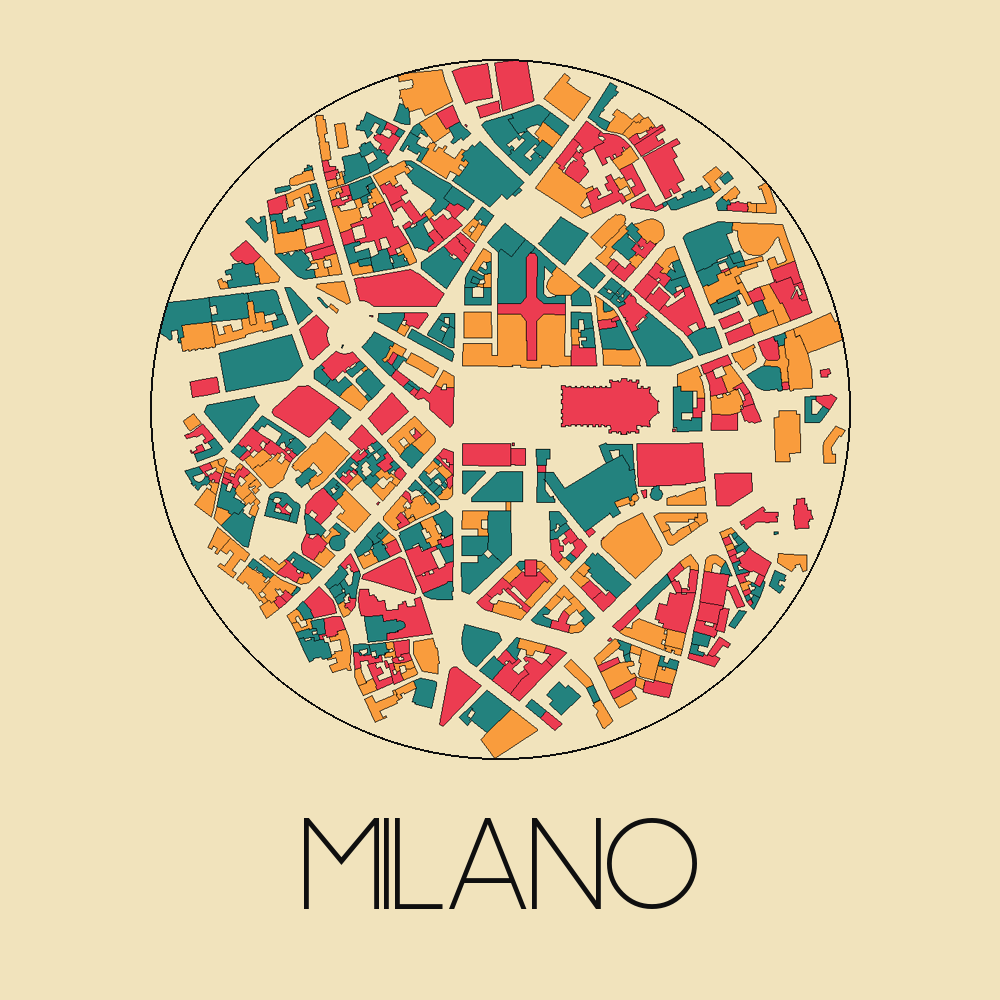
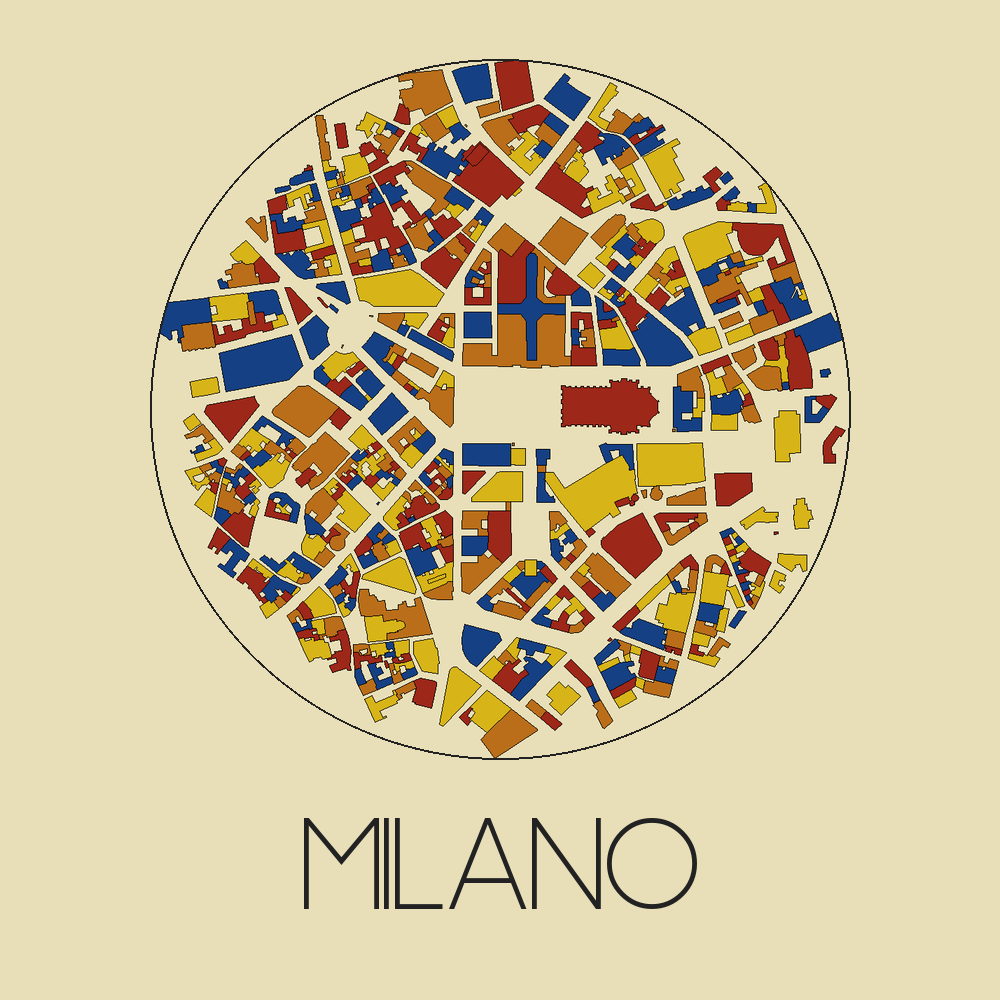
palette changed

Changed region(s): [[0.155, 0.062, 0.837, 0.775]]

diff --git a/NOTES.md b/NOTES.md
@@ -18,3 +18,6 @@ out geom;
 );
 out geom;
 ```
+
+- color palette
+  - <https://coolors.co/154084-9d2719-ba6e19-d7b418-e2d183-e8dfb8-ededed-222222>
